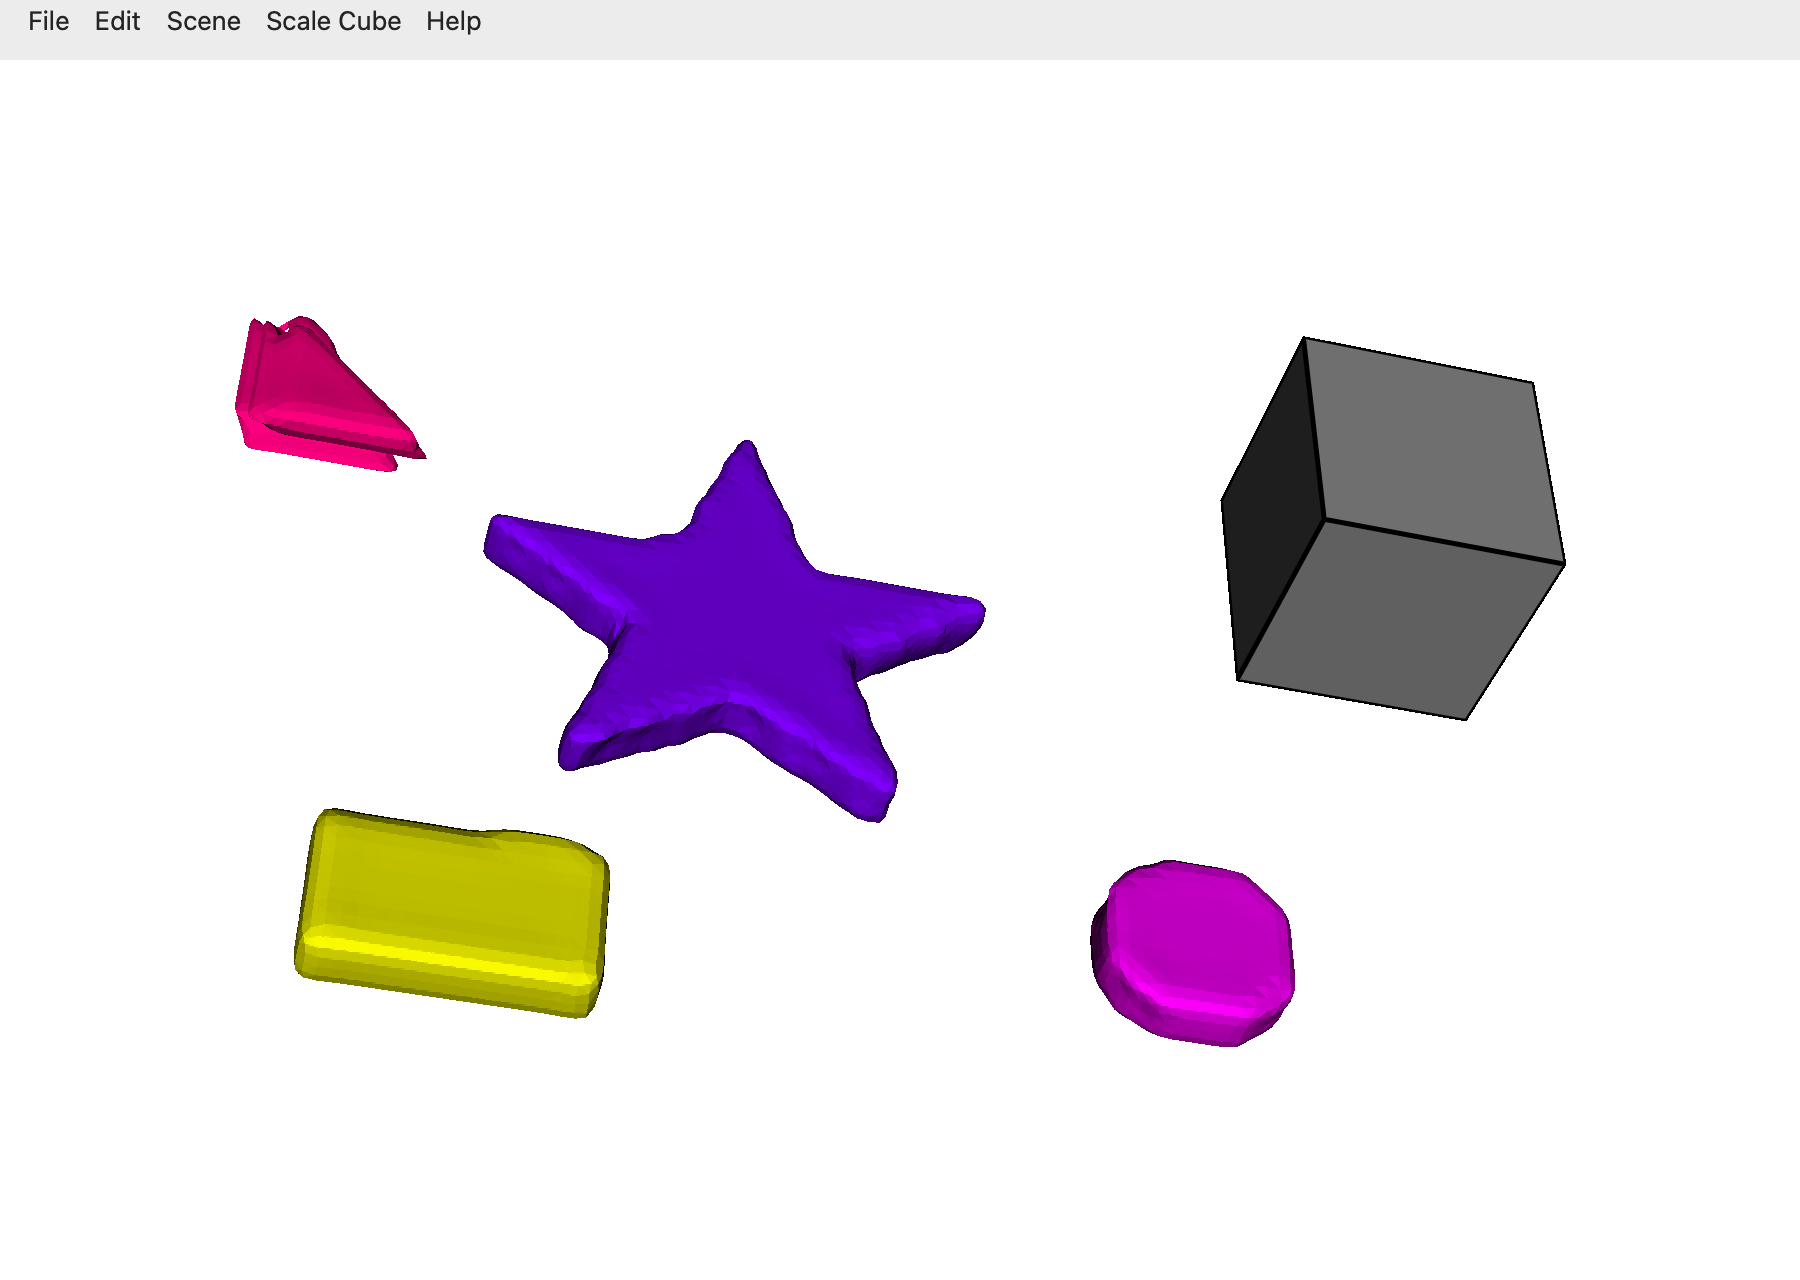
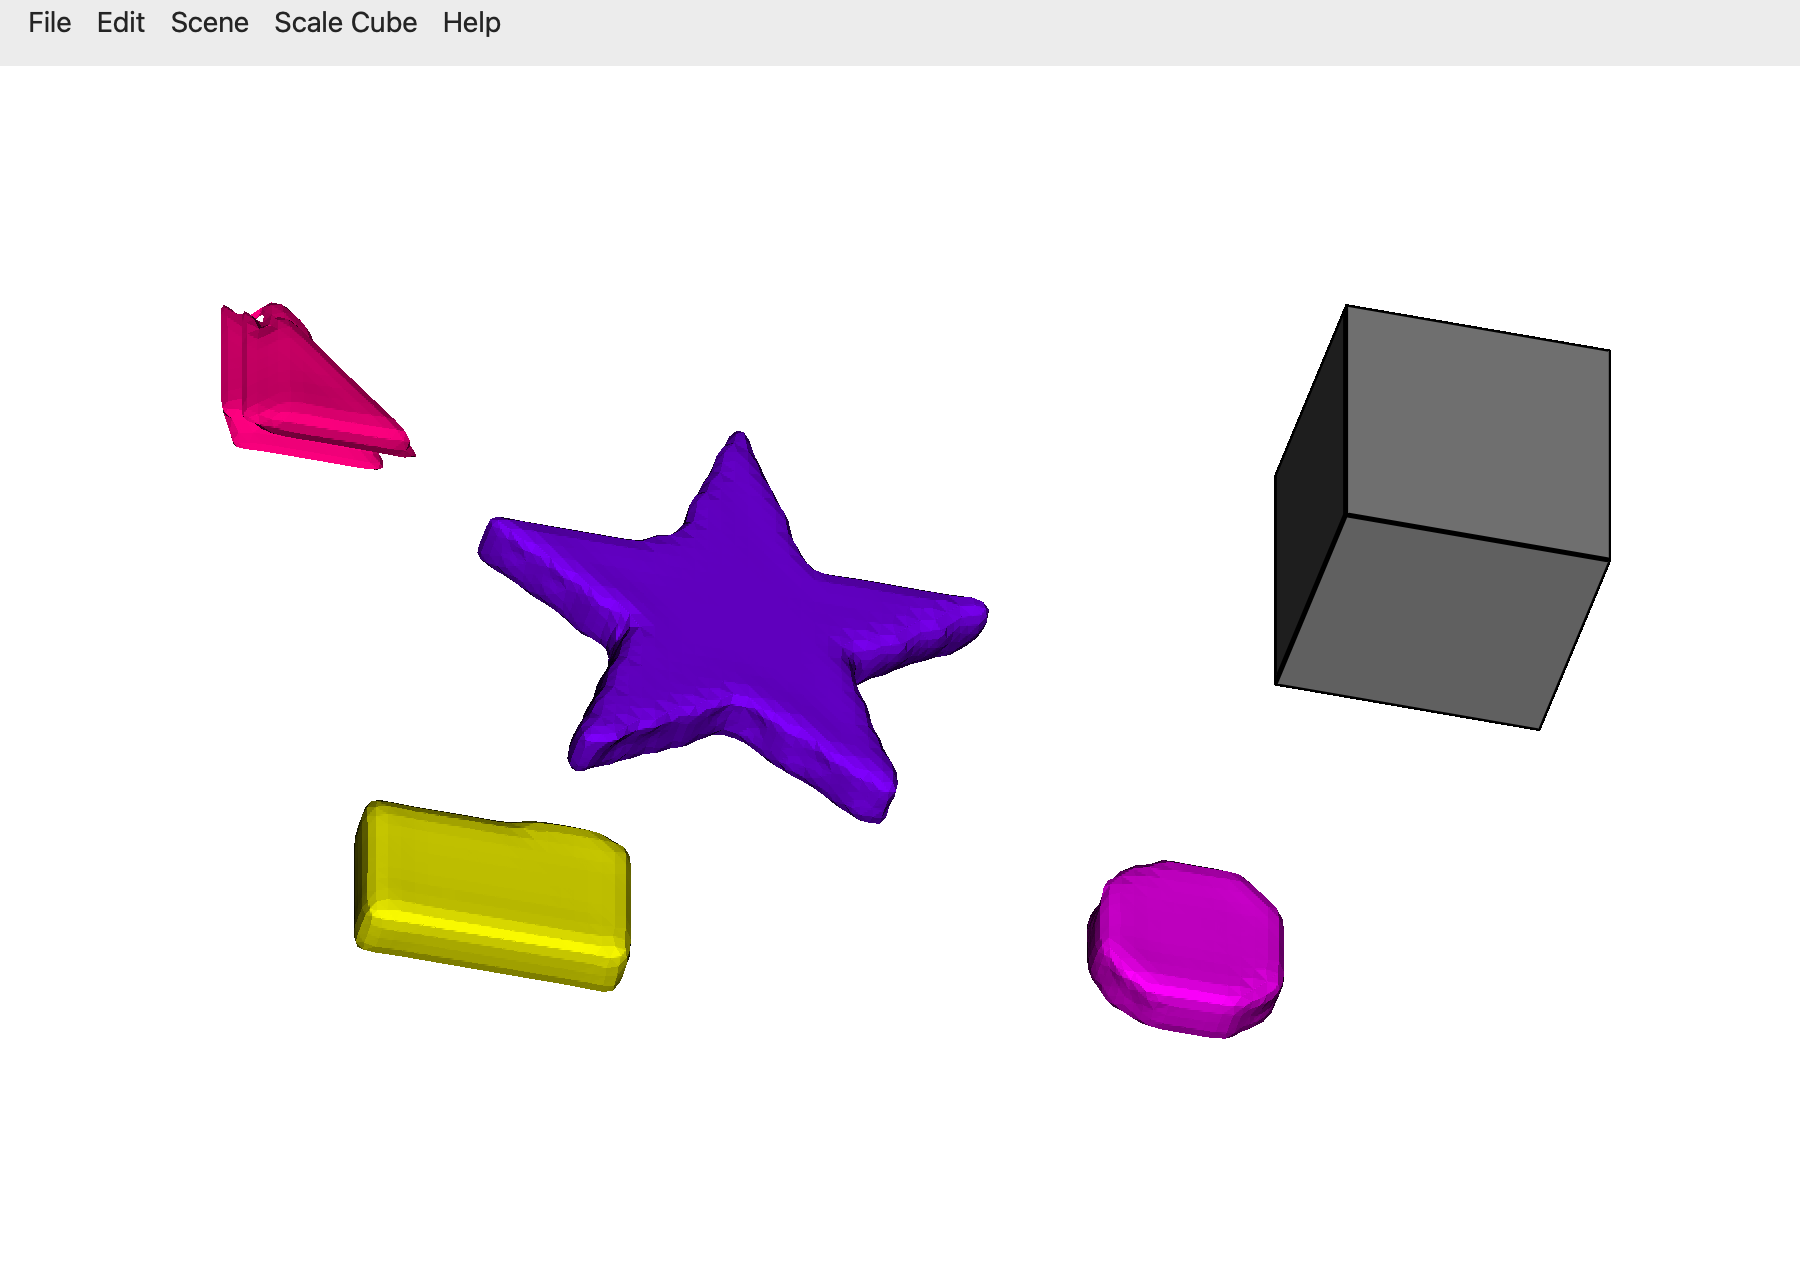
feat(3d): default to orthographic projection (#1129)
- Open new 3D scenes in orthographic projection.
- Add `Scene > View > Orthographic`. Turn it off for perspective.
- Save projection and zoom with the scene. Older scenes keep perspective.
- Cover all three in user guide section 11 and reshoot its 3D image.

Closes #1020.

diff --git a/tests/test_3d_scene_projection.py b/tests/test_3d_scene_projection.py
@@ -1,0 +1,135 @@
+"""Projection controls use the real scene menu and VTK camera."""
+
+from types import SimpleNamespace
+
+import pytest
+
+from conftest import menu_action
+
+pytestmark = pytest.mark.gui
+
+
+@pytest.fixture
+def scene(qtbot, monkeypatch):
+    from vtkmodules.vtkRenderingOpenGL2 import vtkGenericOpenGLRenderWindow
+    from PyReconstruct.modules.gui.popup import custom_plotter as cp
+
+    # Qt's offscreen platform has no native window for VTK. Keep the real
+    # widget, plotter, renderer and camera, but disable drawing to OpenGL.
+    init = cp.QVTKRenderWindowInteractor.__init__
+
+    def headless_init(self, parent):
+        window = vtkGenericOpenGLRenderWindow()
+        window.SetReadyForRendering(False)
+        init(self, parent, rw=window)
+
+    monkeypatch.setattr(cp.QVTKRenderWindowInteractor, "__init__", headless_init)
+    window = SimpleNamespace(
+        screen_info={"dpi": 96},
+        series=SimpleNamespace(getOption=lambda key: False, jser_fp="test.jser"),
+    )
+    viewer = cp.CustomPlotter(window)
+    qtbot.addWidget(viewer.container)
+    yield viewer
+
+
+def test_new_scene_is_orthographic(scene):
+    assert scene.plt.camera.GetParallelProjection() == 1
+    action = menu_action(scene.menubar_widget, "Scene > View > Orthographic")
+    assert action.isCheckable()
+    assert action.isChecked()
+
+
+def test_menu_switches_projection_without_moving_the_camera(scene):
+    camera = scene.plt.camera
+    camera.SetPosition(0, 0, 10)
+    camera.SetFocalPoint(0, 0, 0)
+    camera.SetViewUp(0, 1, 0)
+    camera.SetParallelScale(2)
+    action = menu_action(scene.menubar_widget, "Scene > View > Orthographic")
+
+    def projected_x(z):
+        matrix = camera.GetCompositeProjectionTransformMatrix(1, -1, 1)
+        x, _, _, w = matrix.MultiplyPoint((1, 0, z, 1))
+        return x / w
+
+    assert projected_x(0) == pytest.approx(0.5)
+    assert projected_x(-10) == pytest.approx(0.5)
+    action.trigger()
+    assert not action.isChecked()
+    assert camera.GetParallelProjection() == 0
+    assert projected_x(0) == pytest.approx(2 * projected_x(-10))
+    action.trigger()
+    assert action.isChecked()
+    assert camera.GetParallelProjection() == 1
+    assert projected_x(0) == pytest.approx(projected_x(-10))
+    assert camera.GetPosition() == (0, 0, 10)
+    assert camera.GetFocalPoint() == (0, 0, 0)
+    assert camera.GetViewUp() == (0, 1, 0)
+
+
+@pytest.mark.parametrize("orthographic", [True, False])
+def test_focus_and_axis_views_keep_the_projection(scene, orthographic):
+    import vedo
+
+    scene.plt.add(vedo.Cube())
+    projection = menu_action(scene.menubar_widget, "Scene > View > Orthographic")
+    if not orthographic:
+        projection.trigger()
+    for path in (
+        "Focus on all", "Set view to axis > x-axis",
+        "Set view to axis > y-axis", "Set view to axis > z-axis",
+    ):
+        menu_action(scene.menubar_widget, f"Scene > View > {path}").trigger()
+        assert scene.plt.camera.GetParallelProjection() == orthographic
+        assert projection.isChecked() == orthographic
+
+
+@pytest.mark.parametrize("orthographic", [True, False])
+def test_saved_scene_restores_projection_and_zoom(
+    scene, orthographic, tmp_path, monkeypatch,
+):
+    from PyReconstruct.modules.gui.popup import custom_plotter as cp
+
+    projection = menu_action(scene.menubar_widget, "Scene > View > Orthographic")
+    if not orthographic:
+        projection.trigger()
+    camera = scene.plt.camera
+    camera.SetParallelScale(3.25)
+    path = tmp_path / "scene.json"
+    monkeypatch.setattr(cp.FileDialog, "get", lambda *args: str(path))
+    scene.saveScene()
+    projection.trigger()
+    camera.SetParallelScale(99)
+
+    scene.loadScene(str(path), add_only=True)
+    assert camera.GetParallelProjection() == (not orthographic)
+    assert projection.isChecked() == (not orthographic)
+    assert camera.GetParallelScale() == 99
+
+    scene.loadScene(str(path))
+
+    assert camera.GetParallelProjection() == orthographic
+    assert projection.isChecked() == orthographic
+    assert camera.GetParallelScale() == pytest.approx(3.25)
+
+
+def test_legacy_scene_keeps_its_perspective_view(scene, tmp_path):
+    import json
+
+    path = tmp_path / "legacy-scene.json"
+    path.write_text(json.dumps({
+        "scene_objects": {"series_fps": {}, "scale_cubes": []},
+        "camera": {
+            "position": [0, 0, 10], "focal_point": [0, 0, 0],
+            "view_up": [0, 1, 0], "distance": 10,
+        },
+    }))
+
+    scene.loadScene(str(path))
+
+    assert scene.plt.camera.GetParallelProjection() == 0
+    assert not menu_action(
+        scene.menubar_widget, "Scene > View > Orthographic",
+    ).isChecked()
+    assert scene.plt.camera.GetPosition() == (0, 0, 10)

diff --git a/PyReconstruct/modules/gui/popup/custom_plotter.py b/PyReconstruct/modules/gui/popup/custom_plotter.py
@@ -1086,6 +1086,7 @@ class CustomPlotter(GLSceneWidget if GL_SCENE else QVTKRenderWindowInteractor):
 
         ## Create vedo renderer
         self.plt = VPlotter(self, qt_widget=self)
+        self.plt.parallel_projection(True)
 
         ## Create menu bar
         menubar_list = [
@@ -1145,6 +1146,9 @@ class CustomPlotter(GLSceneWidget if GL_SCENE else QVTKRenderWindowInteractor):
                         "text": "View",
                         "opts":
                         [
+                            ("orthographic_act", "Orthographic", "checkbox True", self.toggleProjection,
+                             "Turn off to use perspective projection."),
+                            None,
                             ("focusall_act", "Focus on all", "Home", self.plt.show),
                             ("focusselected_act", "Center on selected", "F", self.plt.setFocalPointToSelected),
                             {
@@ -1230,6 +1234,11 @@ class CustomPlotter(GLSceneWidget if GL_SCENE else QVTKRenderWindowInteractor):
     def series(self):
         """The series open in the main window right now (see VPlotter.series)."""
         return self.mainwindow.series
+
+    def toggleProjection(self):
+        """Switch between orthographic and perspective projection."""
+        self.plt.parallel_projection(self.orthographic_act.isChecked())
+        self.plt.render()
 
     def _syncRenderWindowSize(self):
         """Resize the render window if it no longer matches this widget.
@@ -1327,6 +1336,8 @@ class CustomPlotter(GLSceneWidget if GL_SCENE else QVTKRenderWindowInteractor):
         d["camera"]["focal_point"] = self.plt.camera.GetFocalPoint()
         d["camera"]["view_up"] = self.plt.camera.GetViewUp()
         d["camera"]["distance"] = self.plt.camera.GetDistance()
+        d["camera"]["parallel_projection"] = bool(self.plt.camera.GetParallelProjection())
+        d["camera"]["parallel_scale"] = self.plt.camera.GetParallelScale()
 
         if return_dict:
             return d
@@ -1376,6 +1387,12 @@ class CustomPlotter(GLSceneWidget if GL_SCENE else QVTKRenderWindowInteractor):
             self.plt.camera.SetFocalPoint(d["camera"]["focal_point"])
             self.plt.camera.SetViewUp(d["camera"]["view_up"])
             self.plt.camera.SetDistance(d["camera"]["distance"])
+            # Older scene files were saved with perspective projection.
+            parallel = d["camera"].get("parallel_projection", False)
+            self.plt.parallel_projection(parallel)
+            self.orthographic_act.setChecked(parallel)
+            if "parallel_scale" in d["camera"]:
+                self.plt.camera.SetParallelScale(d["camera"]["parallel_scale"])
             self.plt.show(resetcam=False)
             
     def addFromOtherSeries(self):

diff --git a/docs/USER_GUIDE.md b/docs/USER_GUIDE.md
@@ -1080,6 +1080,9 @@ The 3D window has its own menu bar:
   (X/Y) and `Ctrl`+Up/Down (Z). Edit its **edge length (µm)**, color, opacity, and
   outline width via **Edit ▸ Edit attributes…** (`Ctrl+E`). It's a physical
   measuring reference.
+- **Scene ▸ View ▸ Orthographic** is on in every new scene, so an object keeps
+  the same size at any depth. Turn it off for perspective, where nearer objects
+  look larger.
 - **Scene ▸ Change background** sets the background color.
 - **Scene ▸ Organize scene…** (`Ctrl+Shift+H`) lines objects up side by side, by
   host group or individually.
@@ -1087,7 +1090,9 @@ The 3D window has its own menu bar:
   0.1 µm and 10°).
 - **File ▸ Save scene… / Load scene…** save the scene (objects, colors, camera) to
   a JSON file and reload it later (also **Series ▸ 3D ▸ Load 3D scene…** from the
-  main window). **Add to scene** can also pull objects from another series.
+  main window). **Add to scene** can also pull objects from another series. The
+  saved camera includes the projection and the orthographic zoom. A scene saved
+  by an older version, without a projection, reopens in perspective.
 
 ### Saving images and exporting meshes
 

diff --git a/changelog.d/orthographic-1020.added.md b/changelog.d/orthographic-1020.added.md
@@ -1,0 +1,2 @@
+- **New 3D scenes open in orthographic view.** Turn off Scene ▸ View ▸
+  Orthographic to use perspective projection.
